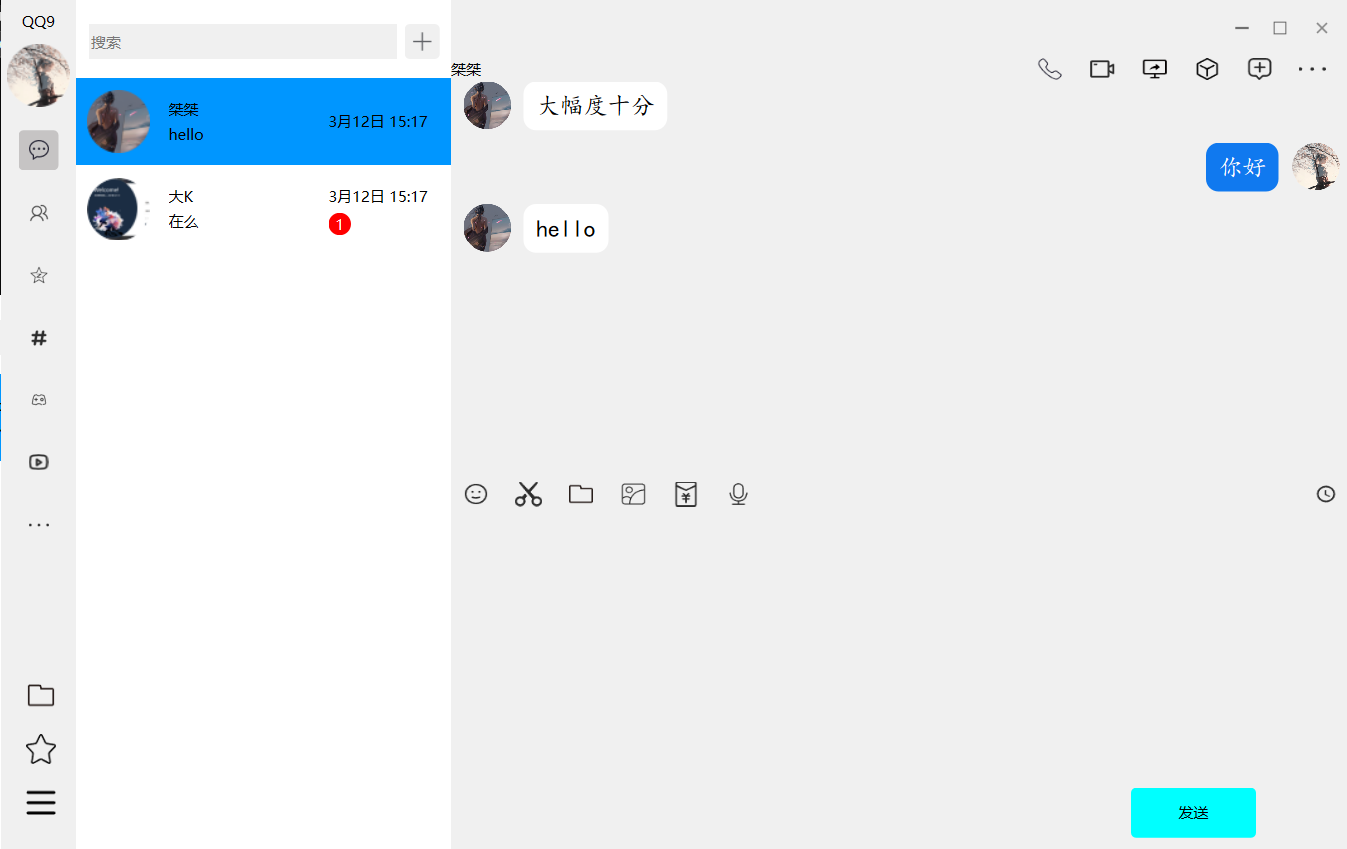
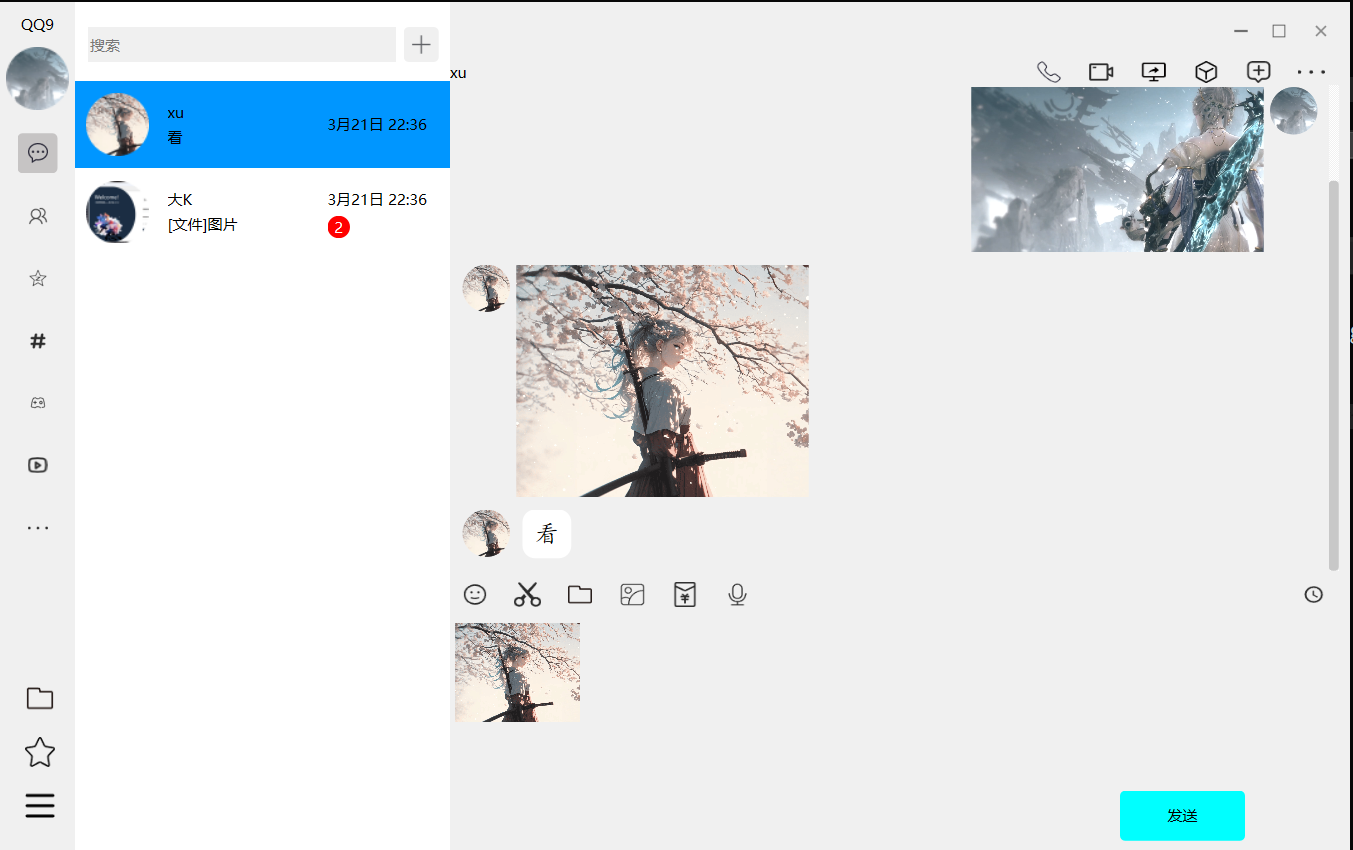
图片的发送接受

diff --git a/QQ-Client/Client-UI/MainWidget/MessagePage/MessagePage.cpp b/QQ-Client/Client-UI/MainWidget/MessagePage/MessagePage.cpp
@@ -11,7 +11,9 @@
 #include <QMouseEvent>
 #include <QFileDialog>
 #include <QScrollBar>
+#include <QBuffer>
 
+#include "PacketCreate.h"
 #include "ImageUtil.h"
 #include "MessageSender.h"
 #include "MessageListItem.h"
@@ -105,6 +107,28 @@ void MessagePage::init()
 					createImageMessageBubble(headPix, pixmap, MessageBubble::BubbleImageRight);
 					updateChatMessage(user_id, m_currentID, QVariant::fromValue(pixmap));
 					m_imageMessagePath.removeOne(imagePath);
+					//像服务端发送
+					QByteArray byteArray;
+					QBuffer buffer(&byteArray);
+					buffer.open(QIODevice::WriteOnly);
+					// 将 QPixmap 转换为 PNG 并存入 QByteArray
+					if (!pixmap.save(&buffer, "PNG")) {
+						qDebug() << "Failed to convert avatar to PNG format.";
+						return;
+					}
+					QVariantMap params;
+					params["user_id"] = user_id;
+					params["to"] = m_friend_id;
+					params["message"] = "picture";
+					params["size"] = byteArray.size();
+
+					//二进制数据的发送
+					auto packet = PacketCreate::binaryPacket("pictureCommunication", params, byteArray);
+					QByteArray userData;
+					PacketCreate::addPacket(userData, packet);
+					auto allData = PacketCreate::allBinaryPacket(userData);
+
+					MessageSender::instance()->sendBinaryData(allData);
 				}
 				ui->messageTextEdit->clear();
 				return;
@@ -117,7 +141,7 @@ void MessagePage::init()
 			createTextMessageBubble(headPix, msg, MessageBubble::BubbleTextRight);
 			//将消息加入至聊天记录中
 			updateChatMessage(user_id, m_currentID, QVariant::fromValue(msg));
-			//下拉至底部并清空输入
+			//清空输入
 			ui->messageTextEdit->clear();
 			//发送给服务器通过服务器转发
 			QJsonObject json;
@@ -126,11 +150,11 @@ void MessagePage::init()
 			json["to"] = m_friend_id;
 			if (user_id == m_friend_id)
 			{
-				EventBus::instance()->emit communication(json);
+				EventBus::instance()->emit textCommunication(json);
 				return;
 			}
 			QVariantMap messageMap = json.toVariantMap();
-			MessageSender::instance()->sendMessage("communication", messageMap);
+			MessageSender::instance()->sendMessage("textCommunication", messageMap);
 		});
 	//选择待发送图片
 	connect(ui->pictureBtn, &QPushButton::clicked, this, [=]
@@ -310,6 +334,14 @@ void MessagePage::updateReciveMessage(const QString& Recivemessage)
 	ui->messageListWidget->setItemWidget(message, message);
 	ui->messageListWidget->scrollToBottom();
 }
+void MessagePage::updateReciveMessage(const QPixmap& pixmap)
+{
+	qDebug() << "xxxxxxx接受图片消息" << pixmap;
+	MessageBubble* message = new MessageBubble(m_friend_headPix, pixmap, MessageBubble::BubbleImageLeft);
+	ui->messageListWidget->addItem(message);
+	ui->messageListWidget->setItemWidget(message, message);
+	ui->messageListWidget->scrollToBottom();
+}
 //更新聊天记录
 void MessagePage::updateChatMessage(const QString& sender_id, const QString& receiver_id, const QVariant& msg)
 {
@@ -344,6 +376,7 @@ void MessagePage::updateChatMessage(const QString& sender_id, const QString& rec
 void MessagePage::clearMessageWidget()
 {
 	ui->messageListWidget->clear();
+	ui->messageTextEdit->clear();
 }
 //事件重写
 bool MessagePage::eventFilter(QObject* watched, QEvent* event)

diff --git a/QQ-Client/Client-Core/MessageHandle.cpp b/QQ-Client/Client-Core/MessageHandle.cpp
@@ -1,4 +1,5 @@
 #include "MessageHandle.h"
+#include "MessageHandle.h"
 #include <QPixmap>
 #include <QJsonDocument>
 #include <QJsonArray>
@@ -19,7 +20,8 @@ void MessageHandle::initRequestHash()
 {
 	requestHash["loginSuccess"] = &MessageHandle::handle_loginSuccess;
 	requestHash["registerSuccess"] = &MessageHandle::handle_registerSuccess;
-	requestHash["communication"] = &MessageHandle::handle_communication;
+	requestHash["textCommunication"] = &MessageHandle::handle_textCommunication;
+	requestHash["pictureCommunication"] = &MessageHandle::handle_pictureCommunication;
 	requestHash["addFriend"] = &MessageHandle::handle_addFriend;
 	requestHash["newFriend"] = &MessageHandle::handle_newFriend;
 	requestHash["rejectAddFriend"] = &MessageHandle::handle_rejectAddFriend;
@@ -134,20 +136,26 @@ void MessageHandle::handle_registerSuccess(const QJsonObject& paramsObject, cons
 {
 	EventBus::instance()->emit registerSuccess(paramsObject);
 }
-void MessageHandle::handle_communication(const QJsonObject& paramsObject, const QByteArray& data)
+void MessageHandle::handle_textCommunication(const QJsonObject& paramsObject, const QByteArray& data)
 {
-	qDebug() << "communication";
-	auto adverse_id = paramsObject["user_id"].toString();
-	auto adverse_message = paramsObject["message"].toString();
-	auto time = paramsObject["time"].toString();
-	EventBus::instance()->emit communication(paramsObject);
+	EventBus::instance()->emit textCommunication(paramsObject);
+}
+void MessageHandle::handle_pictureCommunication(const QJsonObject& paramsObject, const QByteArray& data)
+{
+	QPixmap pixmap;
+	if (data.isEmpty())
+	{
+		qDebug() << "无数据";
+	}
+	else if (!pixmap.loadFromData(data))
+	{
+		qDebug() << "client-头像加载失败";
+		return;
+	};
+	EventBus::instance()->emit pictureCommunication(paramsObject, pixmap);
 }
 void MessageHandle::handle_addFriend(const QJsonObject& paramsObject, const QByteArray& data)
 {
-	qDebug() << "接受到申请信息";
-	auto adverse_id = paramsObject["user_id"].toString();
-	auto adverse_message = paramsObject["message"].toString();
-	auto time = paramsObject["time"].toString();
 	QPixmap pixmap;
 	if (data.isEmpty())
 	{
@@ -178,7 +186,7 @@ void MessageHandle::handle_rejectAddFriend(const QJsonObject& paramsObject, cons
 	{
 		qDebug() << "无数据";
 		pixmap = QPixmap(":/picture/Resource/Picture/qq.png");
-		emit rejectAddFriend(paramsObject, pixmap);
+		EventBus::instance()->emit rejectAddFriend(paramsObject, pixmap);
 	}
 	if (!pixmap.loadFromData(data))
 	{

diff --git a/QQ-Client/Client-UI/MainWidget/MainWidget.cpp b/QQ-Client/Client-UI/MainWidget/MainWidget.cpp
@@ -184,7 +184,7 @@ MainWidget::MainWidget(QWidget* parent)
 
 	//接受信息通知
 	//接受到消息 用户消息项更新
-	connect(EventBus::instance(), &EventBus::communication, this, [=](const QJsonObject& obj)
+	connect(EventBus::instance(), &EventBus::textCommunication, this, [=](const QJsonObject& obj)
 		{
 			qDebug() << "接受消息json:" << obj;
 			auto m_userId = FriendManager::instance()->getOneselfID();
@@ -209,6 +209,38 @@ MainWidget::MainWidget(QWidget* parent)
 				if (m_messagePage->getCurrentID() == friend_id && ui->messageStackedWidget->currentWidget() == m_messagePage)
 				{
 					m_messagePage->updateReciveMessage(message);
+					itemWidget->clearUnreadMessage();
+				}
+			}
+			else
+			{
+				//没有消息项创建一个
+				item = addmessageListItem(obj);
+			}
+		});
+	connect(EventBus::instance(), &EventBus::pictureCommunication, this, [=](const QJsonObject& obj,const QPixmap&pixmap)
+		{
+			auto m_userId = FriendManager::instance()->getOneselfID();
+			auto friend_id = obj["user_id"].toString();
+			auto item = findListItem(friend_id);
+			auto itemWidget = qobject_cast<MessageListItem*>(m_chatMessageListWidget->itemWidget(item));
+			//自己给自己发消息
+			if (friend_id == m_userId)
+			{
+				itemWidget->setUser(obj);
+				itemWidget->clearUnreadMessage();
+				return;
+			}
+			//接收信息加入聊天记录(自己无需添加)
+			m_messagePage->updateChatMessage(friend_id, m_userId, QVariant::fromValue(pixmap));
+			if (item)
+			{
+				//有消息项 追加消息内容
+				itemWidget->setUser(obj);
+				//判断当下是否是该user_id会话界面
+				if (m_messagePage->getCurrentID() == friend_id && ui->messageStackedWidget->currentWidget() == m_messagePage)
+				{
+					m_messagePage->updateReciveMessage(pixmap);
 					itemWidget->clearUnreadMessage();
 				}
 			}

diff --git a/QQ-Client/Client-Core/MessageHandle.h b/QQ-Client/Client-Core/MessageHandle.h
@@ -21,23 +21,14 @@ private:
 	//各种消息处理函数
 	void handle_loginSuccess(const QJsonObject& paramsObject, const QByteArray& data = QByteArray());
 	void handle_registerSuccess(const QJsonObject& paramsObject, const QByteArray& data = QByteArray());
-	void handle_communication(const QJsonObject& paramsObject, const QByteArray& data = QByteArray());
+	void handle_textCommunication(const QJsonObject& paramsObject, const QByteArray& data = QByteArray());
+	void handle_pictureCommunication(const QJsonObject& paramsObject, const QByteArray& data = QByteArray());
 	void handle_addFriend(const QJsonObject& paramsObject, const QByteArray& data = QByteArray());
 	void handle_newFriend(const QJsonObject& paramsObject, const QByteArray& data = QByteArray());
 	void handle_rejectAddFriend(const QJsonObject& paramsObject, const QByteArray& data = QByteArray());
 	void handle_searchUser(const QJsonObject& paramsObject, const QByteArray& data = QByteArray());
 	void handle_updateUserMessage(const QJsonObject& paramsObject, const QByteArray& data = QByteArray());
 	void handle_updateUserAvatar(const QJsonObject& paramsObject, const QByteArray& data = QByteArray());
-signals:   //接受到消息发送信号通知UI界面更新同步
-	void loginSuccess();
-	void communication(const QJsonObject& paramsObject);
-	void addFriend(const QJsonObject& paramsObject, const QPixmap& pixmap);
-	void newFriend(const QJsonObject& paramsObject, const QPixmap& pixmap);
-	void addGroup(const QJsonObject& paramsObject);
-	void rejectAddFriend(const QJsonObject& paramsObject, const QPixmap& pixmap);
-	void searchUser(const QJsonObject& paramsObject, const QPixmap& pixmap);
-	void updateUserMessage(const QJsonObject& paramsObject);
-	void updateUserAvatar(const QString& user_id, const QPixmap& pixmap);
 };
 
 #endif // !MESSAGEHANDLE_H_

diff --git a/QQ-Server/Server-Core/MessageHandle/FriendHandle.cpp b/QQ-Server/Server-Core/MessageHandle/FriendHandle.cpp
@@ -38,18 +38,32 @@ void FriendHandle::handle_addFriend(const QJsonObject& paramsObject, const QByte
 	qDebug() << "发送了申请信息";
 }
 
-void FriendHandle::handle_communication(const QJsonObject& paramsObject, const QByteArray& data)
+void FriendHandle::handle_textCommunication(const QJsonObject& paramsObject, const QByteArray& data)
 {
 	qDebug() << "发送方:" << paramsObject["user_id"].toString();
 	qDebug() << "接受方:" << paramsObject["to"].toString();
 	QJsonObject jsondate;
-	jsondate["type"] = "communication";
+	jsondate["type"] = "textCommunication";
 	jsondate["params"] = paramsObject;
 	auto client_id = paramsObject["to"].toString();
 
 	QJsonDocument doc(jsondate);
 	QString message = QString(doc.toJson(QJsonDocument::Compact));
 	ConnectionManager::instance()->sendTextMessage(client_id, message);
+}
+
+void FriendHandle::handle_pictureCommunication(const QJsonObject& paramsObject, const QByteArray& data)
+{
+	qDebug() << "发送方:" << paramsObject["user_id"].toString();
+	qDebug() << "接受方:" << paramsObject["to"].toString();
+	//数据打包
+	auto userPacket = PacketCreate::binaryPacket("pictureCommunication", paramsObject.toVariantMap(), data);
+	QByteArray userData;
+	PacketCreate::addPacket(userData, userPacket);
+	auto allData = PacketCreate::allBinaryPacket(userData);
+	auto client_id = paramsObject["to"].toString();
+	ConnectionManager::instance()->sendBinaryMessage(client_id, allData);
+	qDebug() << "图片发送";
 }
 
 void FriendHandle::handle_resultOfAddFriend(const QJsonObject& paramsObject, const QByteArray& data)

diff --git a/QQ-Server/Server-Core/MessageHandle/FriendHandle.h b/QQ-Server/Server-Core/MessageHandle/FriendHandle.h
@@ -9,7 +9,8 @@ class FriendHandle
 public:
 	static void handle_addFriend(const QJsonObject& paramsObject, const QByteArray& data = QByteArray());
 	static void handle_deleteFriend(const QJsonObject& paramsObject, const QByteArray& data = QByteArray());
-	static void handle_communication(const QJsonObject& paramsObject, const QByteArray& data = QByteArray());
+	static void handle_textCommunication(const QJsonObject& paramsObject, const QByteArray& data = QByteArray());
+	static void handle_pictureCommunication(const QJsonObject& paramsObject, const QByteArray& data = QByteArray());
 	static void handle_resultOfAddFriend(const QJsonObject& paramsObject, const QByteArray& data = QByteArray());
 	static QVariantMap getUserMessage(const QString& user_id);
 private:

diff --git a/QQ-Server/Server-Core/MessageHandle.cpp b/QQ-Server/Server-Core/MessageHandle.cpp
@@ -24,7 +24,8 @@ void MessageHandle::initRequestHash()
 {
 	requestHash["login"] = &LoginHandle::handle_login;
 	requestHash["register"] = &RegisterHandle::handle_register;
-	requestHash["communication"] = &FriendHandle::handle_communication;
+	requestHash["textCommunication"] = &FriendHandle::handle_textCommunication;
+	requestHash["pictureCommunication"] = &FriendHandle::handle_pictureCommunication;
 	requestHash["addFriend"] = &FriendHandle::handle_addFriend;
 	requestHash["resultOfAddFriend"] = &FriendHandle::handle_resultOfAddFriend;
 	requestHash["deleteFriend"] = &FriendHandle::handle_deleteFriend;

diff --git a/QQ-Client/Client-Core/EventBus.h b/QQ-Client/Client-Core/EventBus.h
@@ -17,7 +17,8 @@ private:
 signals:   //接受到消息发送信号通知UI界面更新同步
 	void loginSuccess();
 	void registerSuccess(const QJsonObject& obj);
-	void communication(const QJsonObject& paramsObject);
+	void textCommunication(const QJsonObject& paramsObject);
+	void pictureCommunication(const QJsonObject& paramsObject, const QPixmap& pixmap);
 	void addFriend(const QJsonObject& paramsObject, const QPixmap& pixmap);
 	void newFriend(const QJsonObject& paramsObject, const QPixmap& pixmap);
 	void addGroup(const QJsonObject& paramsObject);

diff --git a/QQ-Client/Client-UI/MainWidget/MessagePage/MessageListItem.cpp b/QQ-Client/Client-UI/MainWidget/MessagePage/MessageListItem.cpp
@@ -41,7 +41,16 @@ void MessageListItem::setUser(const QJsonObject& obj)
 	m_username = user->getFriendName();
 	if (obj.contains("message") && !obj["message"].isNull() && obj["message"].isString())
 	{
-		m_unReadMessage.append(obj["message"].toString());
+		auto message = obj["message"].toString();
+		if (message == "picture")
+		{
+			message = "[文件]图片";
+			m_unReadMessage.append(message);
+		}
+		else
+		{
+			m_unReadMessage.append(message);
+		}
 	}
 	//头像
 	auto pixmap = ImageUtils::roundedPixmap(user->getAvatar(), QSize(50, 50));

diff --git a/QQ-Client/Client-UI/MainWidget/MessagePage/MessagePage.h b/QQ-Client/Client-UI/MainWidget/MessagePage/MessagePage.h
@@ -24,6 +24,7 @@ public:
 	void setCurrentUser(const QJsonObject& obj);
 	QString getCurrentID();
 	void updateReciveMessage(const QString& message);
+	void updateReciveMessage(const QPixmap& pixmap);
 	void updateChatMessage(const QString& sender_id, const QString& receiver_id, const QVariant& msg);
 	void clearMessageWidget();
 private:
